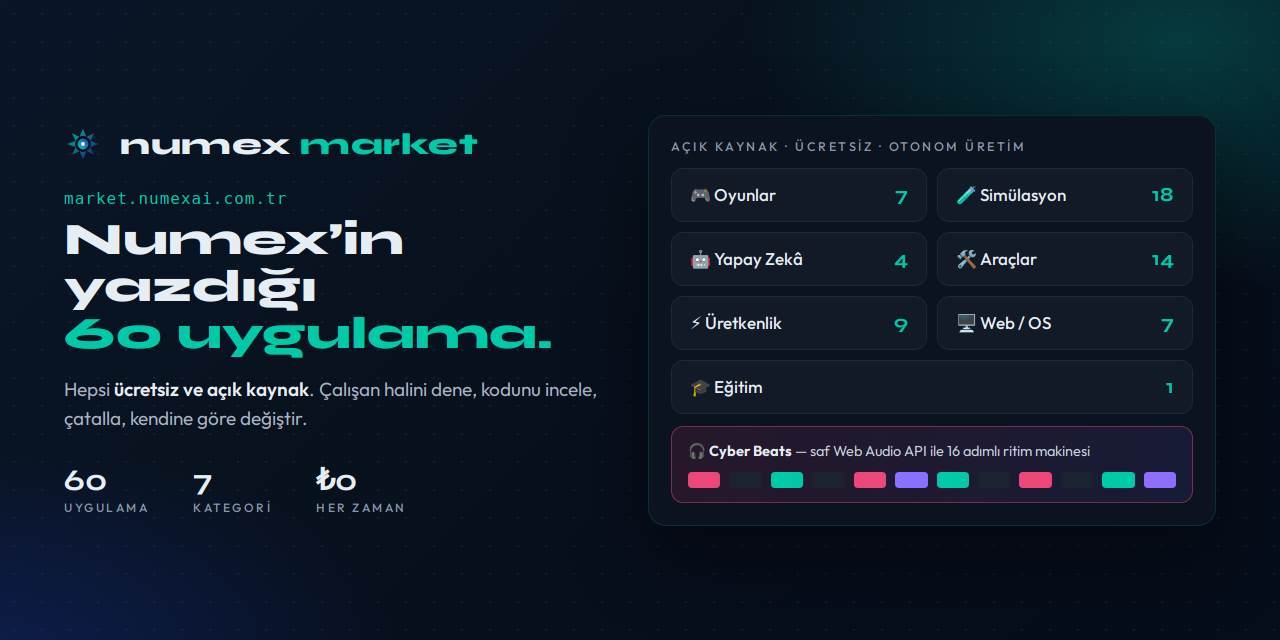
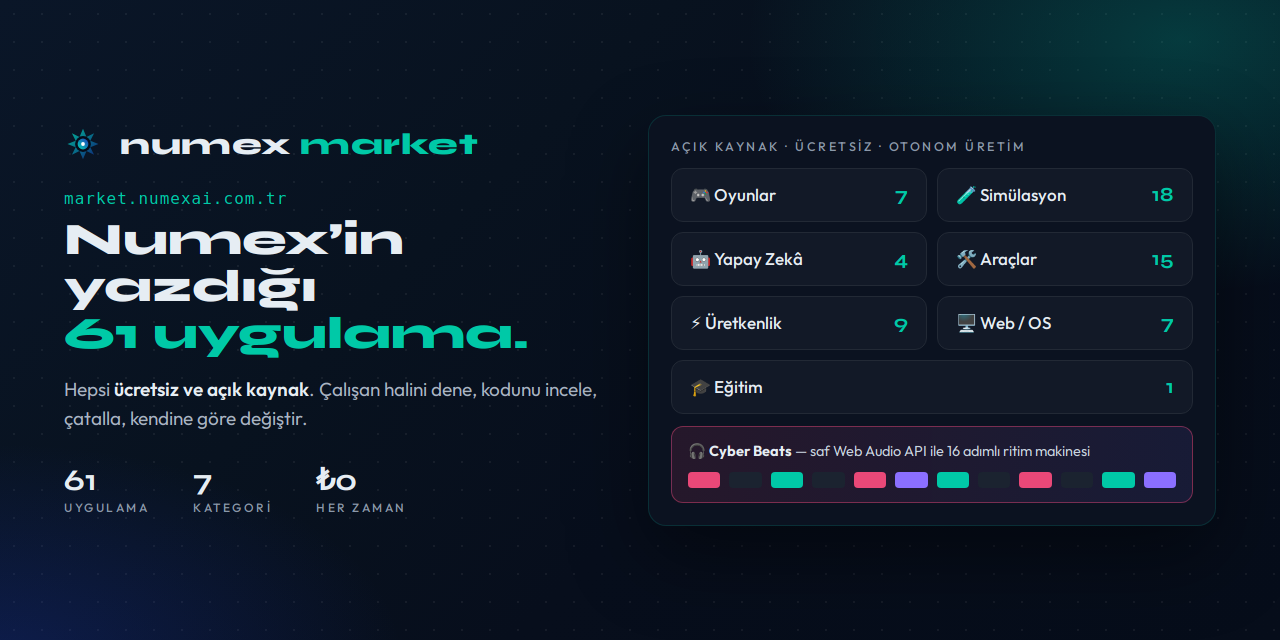
Market güncellendi (numexai.com.tr vitrininden)

Changed region(s): [[0.0938, 0.5, 0.4375, 0.5625], [0.0625, 0.7188, 0.0938, 0.7812]]

diff --git a/README.md b/README.md
@@ -45,8 +45,8 @@ Türkçe'ye ve Türk kullanıcısına özel — verileri Türkiye'de, KVKK uyuml
 <a href="https://okul.numexai.com.tr">okul.numexai.com.tr</a> · <a href="urunler/11-numex-okul.md">ayrıntı</a></td>
 </tr>
 <tr>
-<td width="50%"><a href="https://market.numexai.com.tr"><img src="gorseller/kart-market.png" alt="Numex Market — 60 açık kaynak uygulama"></a>
-<b>🛍 Numex Market</b> — Numex'in kendi yazdığı 60 ücretsiz, açık kaynak uygulama<br>
+<td width="50%"><a href="https://market.numexai.com.tr"><img src="gorseller/kart-market.png" alt="Numex Market — 61 açık kaynak uygulama"></a>
+<b>🛍 Numex Market</b> — Numex'in kendi yazdığı 61 ücretsiz, açık kaynak uygulama<br>
 <a href="https://market.numexai.com.tr">market.numexai.com.tr</a> · <a href="urunler/13-numex-market.md">ayrıntı</a></td>
 <td width="50%"><a href="https://pedia.numexai.com.tr"><img src="gorseller/kart-pedia.png" alt="Numexpedia — özgür Türkçe ansiklopedi"></a>
 <b>📖 Numexpedia</b> — bilgisayar ve yapay zekâ, sade Türkçe ile; 28 makale<br>
@@ -90,7 +90,7 @@ Türkçe'ye ve Türk kullanıcısına özel — verileri Türkiye'de, KVKK uyuml
 | **2 × 256 GB** | RAM, çift sunucu | SAS + NAS depolama |
 | **%100** | KVKK uyumu | Veriler Türkiye'de |
 | **100.000** | Hediye token | Geliştirici API'sinde ilk kayıtta |
-| **60** | Açık kaynak uygulama | Numex Market · 7 kategori · ₺0 |
+| **61** | Açık kaynak uygulama | Numex Market · 7 kategori · ₺0 |
 | **28** | Türkçe makale | Numexpedia · 8 kategori |
 | **16+** | Aile üyesi | Uygulamalar · Geliştirici araçları · Platform & topluluk |
 
@@ -143,7 +143,7 @@ flowchart TB
 | [numexai.com.tr/aile](https://www.numexai.com.tr/aile) | Numex Ailesi haritası |
 | [codex.numexai.com.tr](https://codex.numexai.com.tr) | Numex Codex — IDE, VS Code eklentisi, CLI |
 | [okul.numexai.com.tr](https://okul.numexai.com.tr) | Numex Okul — doğrulanmış testler |
-| [market.numexai.com.tr](https://market.numexai.com.tr) | Numex Market — 60 açık kaynak uygulama |
+| [market.numexai.com.tr](https://market.numexai.com.tr) | Numex Market — 61 açık kaynak uygulama |
 | [dene.numexai.com.tr](https://dene.numexai.com.tr/cyberbeats/) | Market uygulamalarının canlı demoları |
 | [hub.numexai.com.tr](https://hub.numexai.com.tr) | Numex Hub — AI depo yönetimi, Topluluk Vitrini |
 | [forge.numexai.com.tr](https://forge.numexai.com.tr) | Numex Forge — Gitea tabanlı Git sunucusu |
@@ -160,7 +160,7 @@ flowchart TB
 | 💬 | **Numex AI** | Herkes | Türkçe sohbet, kod, görsel, ses, belge analizi, web araması, karakterler, Agent modu | [→](urunler/01-numex-ai-platform.md) |
 | 🎓 | **Numex Okul** | Öğrenci · veli · öğretmen | Bir AI soruyu üretir, ikinci AI doğrular; LGS/TYT/AYT/ehliyet; ekranda çöz veya PDF | [→](urunler/11-numex-okul.md) |
 | 🧩 | **Numex Codex** | Geliştirici | Türkçe kod ajanı: Web editör, masaüstü IDE (v2.9.59), VS Code eklentisi; Sohbet · Plan · Otonom · Hata Avcısı | [→](urunler/03-numex-codex-ide.md) |
-| 🛍 | **Numex Market** | Herkes | Numex'in otonom ürettiği 60 ücretsiz, açık kaynak uygulama; 7 kategori | [→](urunler/13-numex-market.md) |
+| 🛍 | **Numex Market** | Herkes | Numex'in otonom ürettiği 61 ücretsiz, açık kaynak uygulama; 7 kategori | [→](urunler/13-numex-market.md) |
 | ⌨ | **Numex CLI** | Geliştirici | Terminalde otonom ajan (v3.3.10), misyon/plan modu, uzaktan PC köprüsü, MCP | [→](urunler/02-numex-cli.md) |
 | 🧰 | **Codex SDK** | Geliştirici | Çekirdeği uygulamana göm: chat · embeddings · images · models · search · CLI Bridge | [→](urunler/05-api-ve-sdk.md) |
 | 🔌 | **Developer API** | Yazılım ekipleri | REST v1; `numex-pro` · `fast` · `think` · `vision` · `code`; streaming, function calling; ilk kayıtta 100K token | [→](urunler/05-api-ve-sdk.md) |
@@ -331,7 +331,7 @@ KDV dahil, şeffaf. Yıllık ödemede **2 ay bedava**.
 | **2024** | **Detective Mode™** — çoklu model tartışma ve hakem sistemi. |
 | **2025** | **v3.0** — sıfırdan yeniden yazım: Pipeline, karakterler, planlar, Dış API (`/v1/chat/completions`), admin paneli, çift sunucu. **DeepView™ v1.0** (Mart). |
 | **2026 Şubat** | **v3.1** — ilk genel kullanıcı sürümü: Pro/Fast/Vision/Code, paylaşılabilir sohbetler, misafir kullanım, OAuth, Codex editörü. |
-| **2026** | **Numex Ailesi**: Codex IDE v2.9.59 & CLI v3.3.10, Okul, Market (60 uygulama), Numexpedia, Hub & Forge, Oyun Bahçesi; aynı ekipten **Pusulam** ve **PC Doktoru v3.1**. |
+| **2026** | **Numex Ailesi**: Codex IDE v2.9.59 & CLI v3.3.10, Okul, Market (61 uygulama), Numexpedia, Hub & Forge, Oyun Bahçesi; aynı ekipten **Pusulam** ve **PC Doktoru v3.1**. |
 
 **Kurucu — Nurullah Şahin** · Kurucu & AI Mimarı. Sivas Gürün kökenli, İstanbul'da yaşayan teknoloji
 girişimcisi; 2010'dan bu yana yapay zeka ve makine öğrenmesi alanında çalışıyor. Panorama Istanbul

diff --git a/README.en.md b/README.en.md
@@ -35,8 +35,8 @@ Turkish-first by design — data stays in Türkiye, KVKK (Turkish GDPR) complian
 <a href="https://okul.numexai.com.tr">okul.numexai.com.tr</a> · <a href="urunler/11-numex-okul.md">details</a></td>
 </tr>
 <tr>
-<td width="50%"><a href="https://market.numexai.com.tr"><img src="gorseller/kart-market.png" alt="Numex Market — 60 açık kaynak uygulama"></a>
-<b>🛍 Numex Market</b> — 60 free, open-source apps Numex built by itself<br>
+<td width="50%"><a href="https://market.numexai.com.tr"><img src="gorseller/kart-market.png" alt="Numex Market — 61 açık kaynak uygulama"></a>
+<b>🛍 Numex Market</b> — 61 free, open-source apps Numex built by itself<br>
 <a href="https://market.numexai.com.tr">market.numexai.com.tr</a> · <a href="urunler/13-numex-market.md">details</a></td>
 <td width="50%"><a href="https://pedia.numexai.com.tr"><img src="gorseller/kart-pedia.png" alt="Numexpedia — özgür Türkçe ansiklopedi"></a>
 <b>📖 Numexpedia</b> — computing and AI explained in plain Turkish; 28 articles<br>
@@ -54,7 +54,7 @@ Turkish-first by design — data stays in Türkiye, KVKK (Turkish GDPR) complian
 | **16+** | Products in the Numex family |
 | **5-stage** | Pipeline that turns every answer into natural Turkish |
 | **128K** | Token context window |
-| **60** | Open-source apps in Numex Market, all built autonomously |
+| **61** | Open-source apps in Numex Market, all built autonomously |
 | **28** | Articles in Numexpedia, a free Turkish encyclopedia |
 | **2 × 256 GB** | RAM, dual-server infrastructure in Türkiye |
 | **100,000** | Free API tokens on sign-up |
@@ -100,7 +100,7 @@ flowchart TB
 | 💬 **Numex AI** | Everyone | Turkish chat, code, documents, web search, vision, voice, cultural characters, Agent mode | [numexai.com.tr](https://numexai.com.tr) |
 | 🎓 **Numex Okul** | Students, parents, teachers | One AI writes each question, a second AI solves it independently; mismatches are discarded. LGS/TYT/AYT exam prep, driving test; solve on screen or export PDF | [okul.numexai.com.tr](https://okul.numexai.com.tr) |
 | 🧩 **Numex Codex** | Developers | Turkish coding agent: browser editor, desktop IDE (v2.9.59, VS Code based), VS Code extension. Modes: Chat · Plan · Autonomous · Bug Hunter | [codex.numexai.com.tr](https://codex.numexai.com.tr) |
-| 🛍 **Numex Market** | Everyone | 60 free, open-source apps Numex built autonomously, in 7 categories — try live, read the source, fork | [market.numexai.com.tr](https://market.numexai.com.tr) |
+| 🛍 **Numex Market** | Everyone | 61 free, open-source apps Numex built autonomously, in 7 categories — try live, read the source, fork | [market.numexai.com.tr](https://market.numexai.com.tr) |
 | ⌨ **Numex CLI** | Developers | Autonomous agent in the terminal (v3.3.10): plan mode, long-running missions, undo, offline via Ollama, remote-PC bridge, MCP | `npm i -g @numexai/cli` |
 | 🧰 **Codex SDK** | Developers | chat · embeddings · images · models · search + a CLI Bridge to embed the agent anywhere | `npm i numexcodex-sdk` |
 | 🔌 **Developer API** | Teams | REST v1 with `numex-pro`, `numex-fast`, `numex-think`, `numex-vision`, `numex-code`; streaming, function calling | [API docs](urunler/05-api-ve-sdk.md) |
@@ -129,7 +129,7 @@ flowchart TB
    cannot be marked "done" without live evidence — HTTP 200, passing tests, or DOM checks.
 
 **Proof over claims** runs through the whole family: Detective Mode in chat, dual-AI verification
-in Okul, FinishGate in code — and Numex Market, where 60 autonomously built, verified apps are open
+in Okul, FinishGate in code — and Numex Market, where 61 autonomously built, verified apps are open
 for anyone to inspect.
 
 ## 🇹🇷 Cultural characters

diff --git a/urunler/13-numex-market.md b/urunler/13-numex-market.md
@@ -7,7 +7,7 @@
 > **Numex AI'nın sıfırdan kodladığı uygulamalar — hepsi ücretsiz ve açık kaynak.**
 > İster çalışan halini indir, ister kodunu incele, ister kendine göre değiştir.
 
-| **60** | **7** | **₺0** |
+| **61** | **7** | **₺0** |
 |:---:|:---:|:---:|
 | Uygulama | Kategori | Her zaman ücretsiz |
 
@@ -30,7 +30,7 @@ Bu yüzden Market aynı zamanda Numex'in ne üretebildiğinin **canlı kanıtıd
 | 🎮 **Oyunlar** | 7 | Tarayıcıda ve masaüstünde çalışan otonom üretilmiş oyunlar |
 | 🧪 **Simülasyon** | 18 | Etkileşimli simülasyonlar ve görselleştirmeler |
 | 🤖 **Yapay Zeka** | 4 | AI demoları (ör. sinir ağı çekirdeği görselleştirmesi) |
-| 🛠 **Araçlar / Yardımcı** | 14 | Kelime sayacı, resim düzenleyici, Markdown defter gibi günlük araçlar |
+| 🛠 **Araçlar / Yardımcı** | 15 | Kelime sayacı, resim düzenleyici, Markdown defter gibi günlük araçlar |
 | ⚡ **Üretkenlik** | 9 | Randevu sistemi, depo/stok yönetimi, envanter gibi iş araçları |
 | 🖥 **Web / OS** | 7 | Web tabanlı masaüstü/işletim sistemi deneyimleri |
 | 🎓 **Eğitim** | 1 | Öğrenmeye yardımcı etkileşimli uygulamalar |
@@ -51,7 +51,7 @@ Market uygulamaları **dene.numexai.com.tr** üzerinde kurulum gerektirmeden can
 | 🔊 **Ses motoru** | Tüm sesler **saf Web Audio API** ile sentezlenir — tek bir ses dosyası yok |
 | 🎨 **Tasarım** | Neon siberpunk arayüz, durum göstergesi (● ÇALIYOR) |
 
-Bir cümlelik istekten çalışan, test edilmiş ve yayınlanmış bir uygulamaya: Market'teki 60
+Bir cümlelik istekten çalışan, test edilmiş ve yayınlanmış bir uygulamaya: Market'teki 61
 uygulamanın her biri bu hattan geçti.
 
 ## Nasıl kullanılır?
@@ -66,7 +66,7 @@ uygulamanın her biri bu hattan geçti.
 ```mermaid
 flowchart LR
   CORE[🧠 Core — Beyin<br/>otonom üretim] --> FORGE[(🏗 Forge<br/>kaynak kod)]
-  FORGE --> MARKET[🛍 Market<br/>60 uygulama]
+  FORGE --> MARKET[🛍 Market<br/>61 uygulama]
   MARKET -->|indir| USER[👤 Kullanıcı]
   MARKET -->|çatalla| HUB[📦 Hub]
   HUB -->|düzenle| CODEX[🧩 Codex]

diff --git a/urunler/README.md b/urunler/README.md
@@ -14,7 +14,7 @@
 | 10 | [PusulamX](10-pusulamx.md) | KOBİ |
 | 11 | [Numex Okul](11-numex-okul.md) | Eğitim — doğrulanmış testler |
 | 12 | [Güvenlik, gizlilik ve KVKK](12-guvenlik-kvkk.md) | Kurumsal |
-| 13 | [Numex Market](13-numex-market.md) | Herkes — 60 açık kaynak uygulama |
+| 13 | [Numex Market](13-numex-market.md) | Herkes — 61 açık kaynak uygulama |
 | 14 | [Numexpedia](14-numexpedia.md) | Herkes — Türkçe ansiklopedi |
 | 15 | [Numex Ailesi](15-numex-ailesi.md) | Ekosistem haritası |
 | 16 | [Oyun Bahçesi](16-oyun-bahcesi.md) | Herkes |

diff --git a/urunler/06-hub-ve-forge.md b/urunler/06-hub-ve-forge.md
@@ -91,7 +91,7 @@ Numex'in otonom ürettiği uygulamaların kaynak kodu Forge'da herkese açık du
 flowchart LR
     CODEX[Codex Web / IDE / CLI] -->|proje| FORGE[(🏗 Forge<br/>Gitea · gerçek Git)]
     HUB[📦 Hub<br/>AI depo arayüzü] <--> FORGE
-    MARKET[🛍 Numex Market<br/>60 açık kaynak uygulama] -->|kaynak kodu| FORGE
+    MARKET[🛍 Numex Market<br/>61 açık kaynak uygulama] -->|kaynak kodu| FORGE
     PEDIA[📖 Numexpedia] -.bağlantı.-> FORGE
 ```
 
